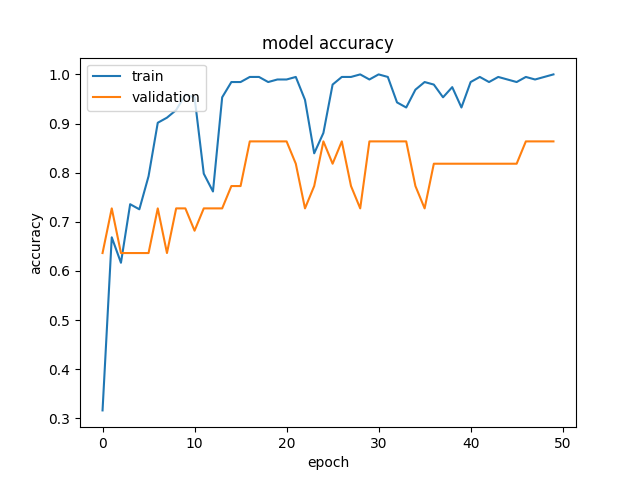
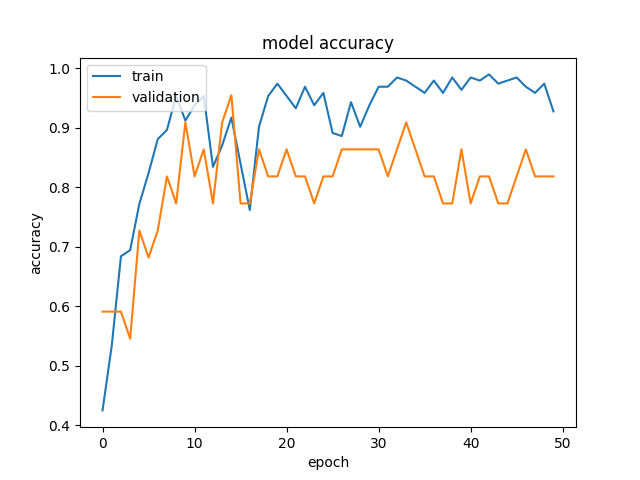
snp saliency and working OvO

diff --git a/training/train_all_modalities.py b/training/train_all_modalities.py
@@ -398,10 +398,13 @@ def train(mode, batch_size, epochs, learning_rate, seed, save_path):
     
     train_clinical = pickle.load(open("../ADNI/X_train_clinical.pkl", 'rb')).values
     test_clinical= pickle.load(open("../ADNI/X_test_clinical.pkl", 'rb')).values
-    import pdb; pdb.set_trace()
+    
+    clinical_column_names = pickle.load(open("../ADNI/X_test_clinical.pkl", 'rb')).columns
     
     train_snp = pickle.load(open("../ADNI/X_train_snp.pkl", 'rb')).values
     test_snp = pickle.load(open("../ADNI/X_test_snp.pkl", 'rb')).values
+
+    snp_column_names = pickle.load(open("../ADNI/X_test_snp.pkl", 'rb')).columns
 
     train_img= make_img("../ADNI/X_train_img.pkl")
     test_img= make_img("../ADNI/X_test_img.pkl")
@@ -452,12 +455,16 @@ def train(mode, batch_size, epochs, learning_rate, seed, save_path):
                         verbose=1)
 
     score = model.evaluate([test_clinical, test_snp, test_img], test_label)
+    #model.load_weights(save_path)
     
     # SALIENCY MAPS
-    saliency_maps = compute_multi_modal_saliency_maps(model, [test_clinical, test_snp, test_img])
-    visualize_some_saliency(test_img, saliency_maps, save_path)
+    # saliency_maps = compute_multi_modal_saliency_maps(model, [test_clinical, test_snp, test_img], test_label)
+    # ####visualize_some_saliency(test_img, saliency_maps, save_path)
+
+    # ranking_snps = rank_snps_by_importance(saliency_maps[1])
+    # save_top_snps(ranking_snps, snp_column_names, save_path)
     
-    pdb.set_trace()
+    # pdb.set_trace()
 
     acc = score[1] 
     test_predictions = model.predict([test_clinical, test_snp, test_img])
@@ -512,6 +519,17 @@ def train(mode, batch_size, epochs, learning_rate, seed, save_path):
 ########### CSCI 2952G: Explainability Core ############    
 
 
+def save_top_snps(snp_ranking, snp_col_names, model_save_path):
+    extract_mode = lambda s: re.search(r'model_(.*?)\.h5', s).group(1)
+    MODE = extract_mode(model_save_path)
+    snp_path = f'../reports/saliency_snp_{MODE}.json'
+    top10_snps = snp_ranking[:10]
+    top10_snps = [snp_col_names[i] for i in top10_snps]
+    with open(snp_path, 'w') as file: json.dump(top10_snps, file)
+    print(f'Saved Top SNPs to {snp_path}')
+    return
+
+
 def visualize_attention_weights(attention_weights, title):
     """
     Assumes attention_weights is a list of numpy arrays
@@ -530,7 +548,7 @@ def visualize_attention_weights(attention_weights, title):
         plt.show()
 
 def visualize_some_saliency(test_img, saliency_maps, save_path):
-    for mri_index_now in range(5):
+    for mri_index_now in range(24):
         extract_mode = lambda s: re.search(r'model_(.*?)\.h5', s).group(1)
         MODE = extract_mode(save_path)
         mri_path = f'../reports/saliency_mri_{MODE}_{mri_index_now}.png'
@@ -586,37 +604,98 @@ def plot_mri_with_heatmaps(mri_images, heatmaps, save_path):
 
 
 
-def compute_multi_modal_saliency_maps(model, inputs):
+# def compute_multi_modal_saliency_maps(model, inputs):
+#     """
+#     Compute saliency maps for all inputs in a multi-modal model without specifying a class index.
+
+#     Args:
+#     model: The trained multi-modal model.
+#     inputs: List of inputs corresponding to each modality (clinical, snp, mri).
+#             These can be numpy arrays or tf.Tensors.
+
+#     Returns:
+#     List of numpy arrays: The computed saliency maps for each modality.
+#     """
+#     # Convert inputs to tf.float32 tensors if they are not already
+#     tensor_inputs = [tf.cast(tf.convert_to_tensor(input_data), tf.float32) for input_data in inputs]
+
+#     with tf.GradientTape() as tape:
+#         # Watch the tensor inputs
+#         tape.watch(tensor_inputs)
+#         predictions = model(tensor_inputs)
+#         # Use the model's output (e.g., the logits or probabilities) for gradient computation
+#         loss = tf.reduce_sum(predictions)  # Sums up the outputs for gradient calculation
+
+#     gradients = tape.gradient(loss, tensor_inputs)
+
+#     # Check if gradients are computed successfully
+#     if any(grad is None for grad in gradients):
+#         raise ValueError("Gradient computation failed. Check if the model and inputs are compatible.")
+
+#     saliency_maps = [tf.abs(grad).numpy() for grad in gradients]
+#     return saliency_maps
+
+
+def compute_multi_modal_saliency_maps(model, inputs, target):
     """
-    Compute saliency maps for all inputs in a multi-modal model without specifying a class index.
+    Compute saliency maps for all inputs in a multi-modal model with a specified target.
 
     Args:
     model: The trained multi-modal model.
     inputs: List of inputs corresponding to each modality (clinical, snp, mri).
             These can be numpy arrays or tf.Tensors.
+    target: The target tensor for computing loss (class labels).
 
     Returns:
     List of numpy arrays: The computed saliency maps for each modality.
     """
-    # Convert inputs to tf.float32 tensors if they are not already
     tensor_inputs = [tf.cast(tf.convert_to_tensor(input_data), tf.float32) for input_data in inputs]
+    tensor_target = tf.cast(tf.convert_to_tensor(target), tf.float32)
 
     with tf.GradientTape() as tape:
-        # Watch the tensor inputs
         tape.watch(tensor_inputs)
         predictions = model(tensor_inputs)
-        # Use the model's output (e.g., the logits or probabilities) for gradient computation
-        loss = tf.reduce_sum(predictions)  # Sums up the outputs for gradient calculation
+
+        # Reshape target to match predictions if necessary
+        if len(tensor_target.shape) == 1 and len(predictions.shape) == 2:
+            tensor_target = tf.one_hot(tf.cast(tensor_target, tf.int32), depth=predictions.shape[-1])
+
+        loss = tf.keras.losses.MSE(tensor_target, predictions)
+        #loss = tf.keras.losses.categorical_crossentropy(tensor_target, predictions, from_logits=True)
 
     gradients = tape.gradient(loss, tensor_inputs)
-
-    # Check if gradients are computed successfully
-    if any(grad is None for grad in gradients):
-        raise ValueError("Gradient computation failed. Check if the model and inputs are compatible.")
+    gradients = [tf.clip_by_value(grad, -1, 1) for grad in gradients]
 
     saliency_maps = [tf.abs(grad).numpy() for grad in gradients]
     return saliency_maps
 
+def rank_snps_by_importance(saliency_scores):
+    """
+    Rank SNPs based on their importance using mean reciprocal rank.
+
+    Args:
+    saliency_scores (numpy.ndarray): A 2D array of shape (num_inputs, num_snps) containing saliency scores.
+
+    Returns:
+    numpy.ndarray: A 1D array of SNP indices ranked by their importance.
+    """
+    num_inputs, num_snps = saliency_scores.shape
+
+    # Initialize a matrix to hold ranks for each input
+    ranks = np.zeros_like(saliency_scores, dtype=float)
+
+    # Loop through each input and rank the SNPs
+    for i in range(num_inputs):
+        # argsort twice to get rank positions; smaller rank means more important
+        ranks[i, :] = np.argsort(np.argsort(-saliency_scores[i, :]))
+
+    # Compute mean reciprocal rank for each SNP
+    mrr = np.mean(1.0 / (ranks + 1), axis=0)
+
+    # Get indices of SNPs sorted by their MRR (descending order of importance)
+    ranked_snps = np.argsort(-mrr)
+
+    return ranked_snps
 
 
 def maximize_multi_modal_activation(model, target_layer, input_shapes, iterations=30, step=1.0):
@@ -668,13 +747,14 @@ if __name__=="__main__":
     parent_directory = os.path.abspath(os.path.join(current_script_path, os.pardir))
     checkpoints_directory = os.path.join(parent_directory, 'checkpoints')
     os.makedirs(checkpoints_directory, exist_ok=True)
-    MODEL_SAVE_PATH = os.path.join(checkpoints_directory, 'model_OVO.h5')
+
+    EPOCHS_NOW = 50
 
     m_a = {}
-    seeds = random.sample(range(1, 200), 5)
-    for s in seeds:
-        acc, bs_, lr_, e_ , seed= train('MM_OVO', 32, 50, 0.001, s, MODEL_SAVE_PATH)
-        m_a[acc] = ('MM_OVO', acc, bs_, lr_, e_, seed)
+    s = 191
+    MODEL_SAVE_PATH = os.path.join(checkpoints_directory, f'model_OVO_{s}.h5')
+    acc, bs_, lr_, e_ , seed= train('MM_OVO', 32, EPOCHS_NOW, 0.001, s, MODEL_SAVE_PATH)
+    m_a[acc] = ('MM_OVO', acc, bs_, lr_, e_, seed)
     print(m_a)
     print ('-'*55)
     max_acc = max(m_a, key=float)

diff --git a/training/train_all_modalities_SA.py b/training/train_all_modalities_SA.py
@@ -80,16 +80,11 @@ class CustomMultiHeadAttention(layers.Layer):
         Returns:
             A tensor of shape (batch_size, seq_len, embed_dim) representing the context vector.
         """
-        #pdb.set_trace()
-
-        batch_size = tf.shape(main)[0]
         main = tf.expand_dims(main, 1)
         sh = tf.shape(main)
         bsz = sh[0]
         tgt_len = sh[1]
         embed_dim = sh[2]
-        #bsz, tgt_len, embed_dim = tf.shape(main)
-        src_len = tf.shape(main)[0]
 
         main = tf.reshape(main, (tgt_len, bsz * self.num_heads, self.d_head))
         main = tf.transpose(main, perm=[1, 0, 2])
@@ -111,10 +106,13 @@ class CustomMultiHeadAttention(layers.Layer):
         processed_others.append(mod)
 
         #pdb.set_trace()
-
+        # print("BEFORE OVO")
+        # print(tf.shape(main))
         context, attn = self.ovo_attn(processed_others, main, self.W)
-        context = tf.reshape(context, (bsz * tgt_len, embed_dim))
-        context = tf.reshape(context, (bsz, tgt_len, tf.shape(context)[1]))
+        # print("AFTER OVO")
+        # print(tf.shape(context))
+        # context = tf.reshape(context, (bsz * tgt_len, embed_dim))
+        # context = tf.reshape(context, (bsz, tgt_len, tf.shape(context)[1]))
 
         if return_attention_weights:
             return context, attn
@@ -450,16 +448,16 @@ def train(mode, batch_size, epochs, learning_rate, seed, save_path):
     #visualize_attention_weights(attention_weights, 'Attention Weights Visualization')
 
     # summarize results
-    # history = model.fit([train_clinical,
-    #                      train_snp,
-    #                      train_img],
-    #                     train_label,
-    #                     epochs=epochs,
-    #                     batch_size=batch_size,
-    #                     class_weight=d_class_weights,
-    #                     validation_split=0.1,
-    #                     verbose=1)
-    model.load_weights(save_path)
+    history = model.fit([train_clinical,
+                         train_snp,
+                         train_img],
+                        train_label,
+                        epochs=epochs,
+                        batch_size=batch_size,
+                        class_weight=d_class_weights,
+                        validation_split=0.1,
+                        verbose=1)
+    #model.load_weights(save_path)
 
     score = model.evaluate([test_clinical, test_snp, test_img], test_label)
     
@@ -541,7 +539,7 @@ def visualize_attention_weights(attention_weights, title):
         plt.show()
 
 def visualize_some_saliency(test_img, saliency_maps, save_path):
-    for mri_index_now in range(5):
+    for mri_index_now in range(24):
         extract_mode = lambda s: re.search(r'model_(.*?)\.h5', s).group(1)
         MODE = extract_mode(save_path)
         mri_path = f'../reports/saliency_mri_{MODE}_{mri_index_now}.png'
@@ -677,11 +675,11 @@ if __name__=="__main__":
     parent_directory = os.path.abspath(os.path.join(current_script_path, os.pardir))
     checkpoints_directory = os.path.join(parent_directory, 'checkpoints')
     os.makedirs(checkpoints_directory, exist_ok=True)
-    MODEL_SAVE_PATH = os.path.join(checkpoints_directory, 'model_SA.h5')
-
+    
     m_a = {}
     seeds = random.sample(range(1, 200), 5)
     for s in seeds:
+        MODEL_SAVE_PATH = os.path.join(checkpoints_directory, f'model_SA_{s}.h5')
         acc, bs_, lr_, e_ , seed= train('MM_SA', 32, 50, 0.001, s, MODEL_SAVE_PATH)
         m_a[acc] = ('MM_SA', acc, bs_, lr_, e_, seed)
     print(m_a)

diff --git a/training/train_all_modalities_SA_BA.py b/training/train_all_modalities_SA_BA.py
@@ -79,16 +79,11 @@ class CustomMultiHeadAttention(layers.Layer):
         Returns:
             A tensor of shape (batch_size, seq_len, embed_dim) representing the context vector.
         """
-        #pdb.set_trace()
-
-        batch_size = tf.shape(main)[0]
         main = tf.expand_dims(main, 1)
         sh = tf.shape(main)
         bsz = sh[0]
         tgt_len = sh[1]
         embed_dim = sh[2]
-        #bsz, tgt_len, embed_dim = tf.shape(main)
-        src_len = tf.shape(main)[0]
 
         main = tf.reshape(main, (tgt_len, bsz * self.num_heads, self.d_head))
         main = tf.transpose(main, perm=[1, 0, 2])
@@ -110,10 +105,13 @@ class CustomMultiHeadAttention(layers.Layer):
         processed_others.append(mod)
 
         #pdb.set_trace()
-
+        # print("BEFORE OVO")
+        # print(tf.shape(main))
         context, attn = self.ovo_attn(processed_others, main, self.W)
-        context = tf.reshape(context, (bsz * tgt_len, embed_dim))
-        context = tf.reshape(context, (bsz, tgt_len, tf.shape(context)[1]))
+        # print("AFTER OVO")
+        # print(tf.shape(context))
+        # context = tf.reshape(context, (bsz * tgt_len, embed_dim))
+        # context = tf.reshape(context, (bsz, tgt_len, tf.shape(context)[1]))
 
         if return_attention_weights:
             return context, attn
@@ -531,7 +529,7 @@ def visualize_attention_weights(attention_weights, title):
         plt.show()
 
 def visualize_some_saliency(test_img, saliency_maps, save_path):
-    for mri_index_now in range(5):
+    for mri_index_now in range(24):
         extract_mode = lambda s: re.search(r'model_(.*?)\.h5', s).group(1)
         MODE = extract_mode(save_path)
         mri_path = f'../reports/saliency_mri_{MODE}_{mri_index_now}.png'
@@ -668,11 +666,11 @@ if __name__=="__main__":
     parent_directory = os.path.abspath(os.path.join(current_script_path, os.pardir))
     checkpoints_directory = os.path.join(parent_directory, 'checkpoints')
     os.makedirs(checkpoints_directory, exist_ok=True)
-    MODEL_SAVE_PATH = os.path.join(checkpoints_directory, 'model_SA_BA.h5')
-
+    
     m_a = {}
     seeds = random.sample(range(1, 200), 5)
     for s in seeds:
+        MODEL_SAVE_PATH = os.path.join(checkpoints_directory, f'model_SA_BA_{s}.h5')
         acc, bs_, lr_, e_ , seed= train('MM_SA_BA', 32, 50, 0.001, s, MODEL_SAVE_PATH)
         m_a[acc] = ('MM_SA_BA', acc, bs_, lr_, e_, seed)
     print(m_a)

diff --git a/training/train_all_modalities_BA.py b/training/train_all_modalities_BA.py
@@ -80,16 +80,11 @@ class CustomMultiHeadAttention(layers.Layer):
         Returns:
             A tensor of shape (batch_size, seq_len, embed_dim) representing the context vector.
         """
-        #pdb.set_trace()
-
-        batch_size = tf.shape(main)[0]
         main = tf.expand_dims(main, 1)
         sh = tf.shape(main)
         bsz = sh[0]
         tgt_len = sh[1]
         embed_dim = sh[2]
-        #bsz, tgt_len, embed_dim = tf.shape(main)
-        src_len = tf.shape(main)[0]
 
         main = tf.reshape(main, (tgt_len, bsz * self.num_heads, self.d_head))
         main = tf.transpose(main, perm=[1, 0, 2])
@@ -111,10 +106,13 @@ class CustomMultiHeadAttention(layers.Layer):
         processed_others.append(mod)
 
         #pdb.set_trace()
-
+        # print("BEFORE OVO")
+        # print(tf.shape(main))
         context, attn = self.ovo_attn(processed_others, main, self.W)
-        context = tf.reshape(context, (bsz * tgt_len, embed_dim))
-        context = tf.reshape(context, (bsz, tgt_len, tf.shape(context)[1]))
+        # print("AFTER OVO")
+        # print(tf.shape(context))
+        # context = tf.reshape(context, (bsz * tgt_len, embed_dim))
+        # context = tf.reshape(context, (bsz, tgt_len, tf.shape(context)[1]))
 
         if return_attention_weights:
             return context, attn
@@ -532,7 +530,7 @@ def visualize_attention_weights(attention_weights, title):
         plt.show()
 
 def visualize_some_saliency(test_img, saliency_maps, save_path):
-    for mri_index_now in range(5):
+    for mri_index_now in range(24):
         extract_mode = lambda s: re.search(r'model_(.*?)\.h5', s).group(1)
         MODE = extract_mode(save_path)
         mri_path = f'../reports/saliency_mri_{MODE}_{mri_index_now}.png'
@@ -670,11 +668,11 @@ if __name__=="__main__":
     parent_directory = os.path.abspath(os.path.join(current_script_path, os.pardir))
     checkpoints_directory = os.path.join(parent_directory, 'checkpoints')
     os.makedirs(checkpoints_directory, exist_ok=True)
-    MODEL_SAVE_PATH = os.path.join(checkpoints_directory, 'model_BA.h5')
 
     m_a = {}
     seeds = random.sample(range(1, 200), 5)
     for s in seeds:
+        MODEL_SAVE_PATH = os.path.join(checkpoints_directory, f'model_BA_{s}.h5')
         acc, bs_, lr_, e_ , seed= train('MM_BA', 32, 50, 0.001, s, MODEL_SAVE_PATH)
         m_a[acc] = ('MM_BA', acc, bs_, lr_, e_, seed)
     print(m_a)
